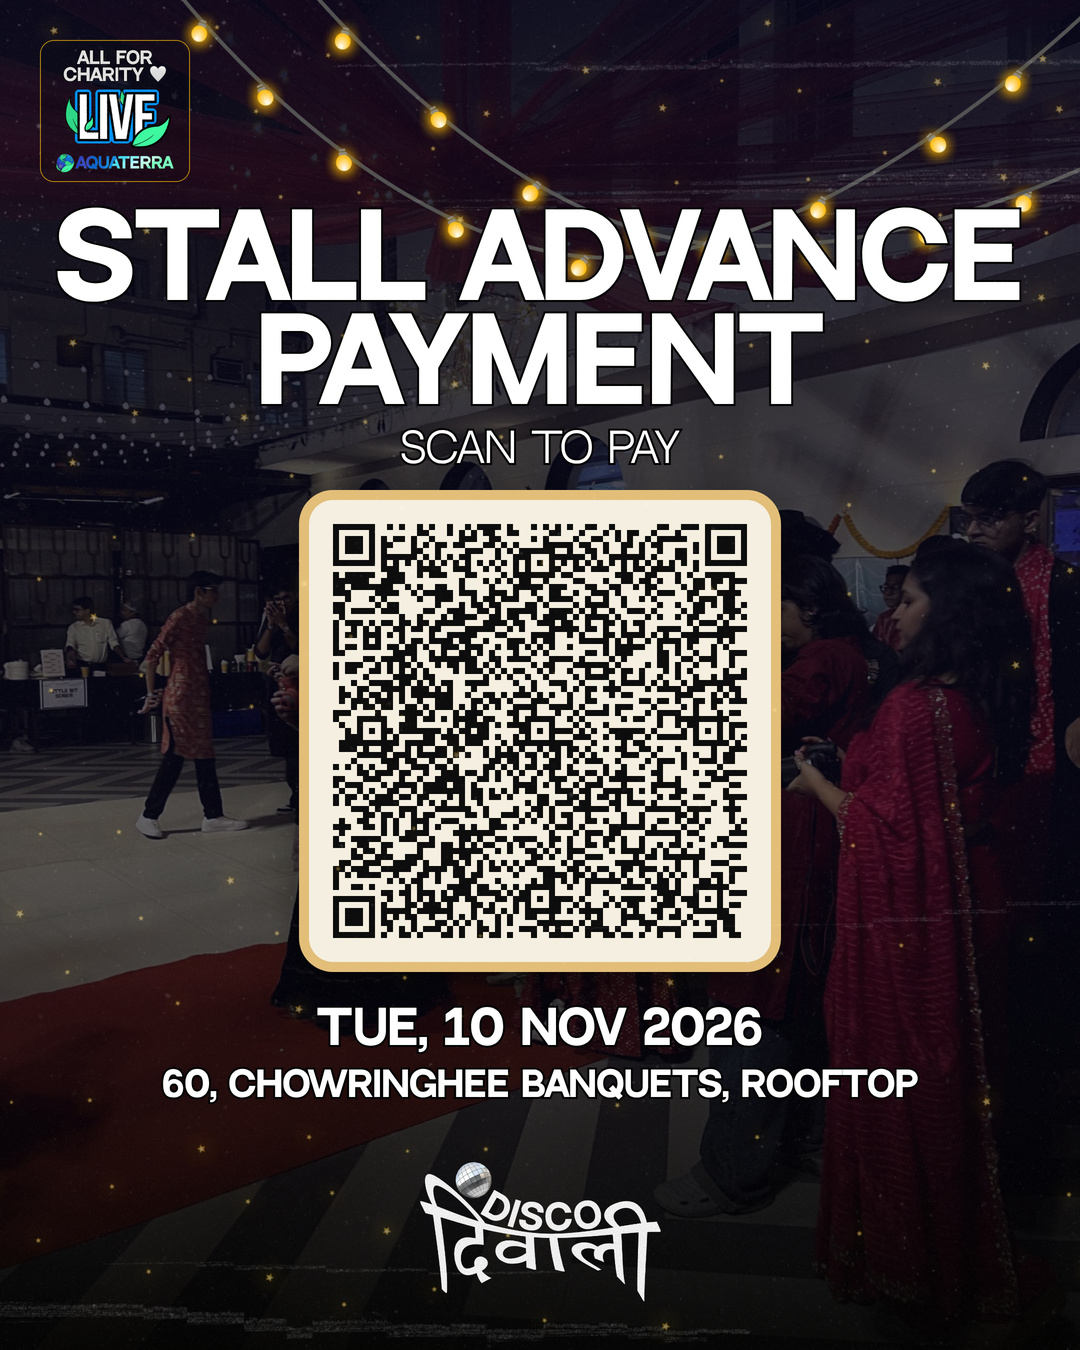
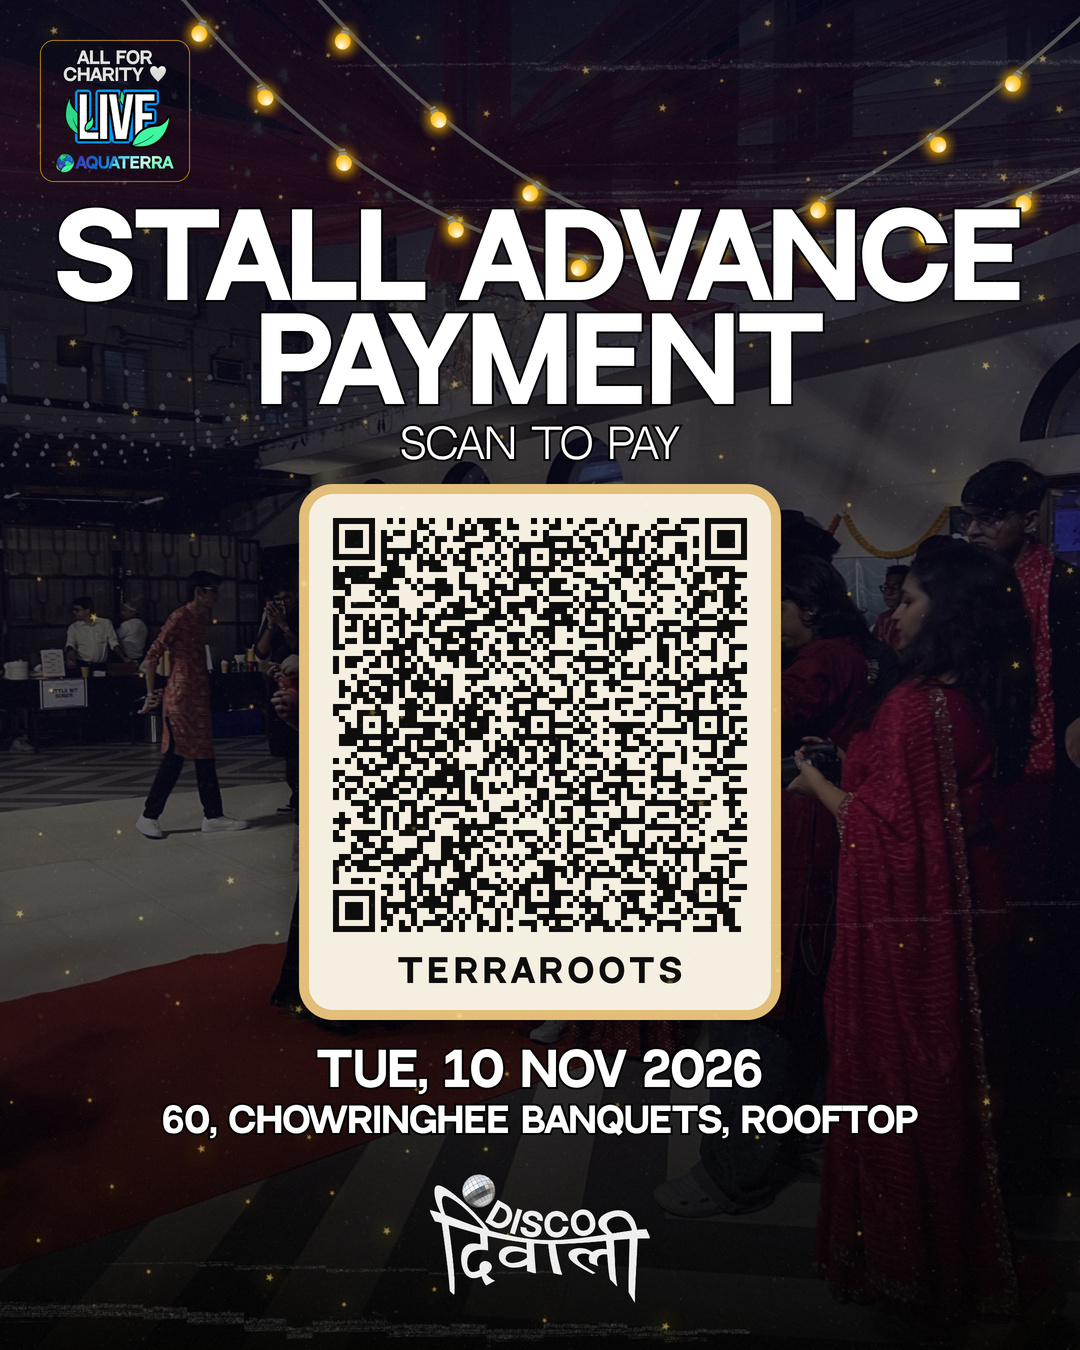
Disco Diwali stall payment poster: TERRAROOTS caption under the QR
Claude-Session: https://claude.ai/code/session_01EbfLyNU2fjZkJPnh1wiT4Z

Changed region(s): [[0.1528, 0.3111, 0.8556, 0.9644]]

diff --git a/scratchpad/dd_stall_qr_poster.py b/scratchpad/dd_stall_qr_poster.py
@@ -1,6 +1,6 @@
 """DISCO DIWALI STALL ADVANCE PAYMENT poster, WhatsApp feed 1080x1350 (user, 2026-10-22: "whatsapp poster QR for stalls advance payment").
 Audience (user): STALL HOLDERS booking a stall pay an advance. Copy (user: "headline + date + venue only"): STALL ADVANCE PAYMENT / SCAN TO PAY / TUE, 10 NOV 2026 /
-60, CHOWRINGHEE BANQUETS, ROOFTOP. No amount (the QR has none: the payer types it), no payee name, no deadline, no app claims.
+60, CHOWRINGHEE BANQUETS, ROOFTOP. No amount (the QR has none: the payer types it), and TERRAROOTS in a caption strip under the QR (user, 2026-10-23), no deadline, no app claims.
 QR: the user's own static merchant payment code (payee TERRAROOTS, Kolkata; the user ruled all payment QRs are TERRAROOTS). Regenerated crisp with segno (error M) from the
 EXACT payload decoded out of their supplied image; the build refuses to finish unless (1) the supplied image still decodes to the payload, (2) the regenerated code decodes to it,
 (3) the rendered poster's QR plate decodes to it at three scales. Dark on cream with a 4-module quiet zone (a QR on black does not scan reliably).
@@ -33,8 +33,10 @@ tmp = io.BytesIO(); q.save(tmp, kind="png", scale=12, border=4)
 assert decode(cv2.cvtColor(np.array(Image.open(io.BytesIO(tmp.getvalue())).convert("RGB")), cv2.COLOR_RGB2BGR)) == PAYLOAD, "regenerated QR does not decode to PAYLOAD"
 MODS = q.symbol_size(border=0)[0]
 QR_PX = round(430 / MODS) * MODS; PAD = round(4 * QR_PX / MODS); BORDER = 10
-PLATE = QR_PX + 2 * PAD + 2 * BORDER
-PX, PY = (W - PLATE) // 2, 490
+PLATE = QR_PX + 2 * PAD + 2 * BORDER                      # the square the QR + its 4-module quiet zone needs
+CAP = PAD + 32 + 22                                        # caption strip: the 4-module quiet zone (PAD) FIRST, then the 32px word, then 22px of cream (user, 2026-10-23: write TERRAROOTS at the bottom of the QR)
+PLATE_H = 2 * BORDER + PAD + QR_PX + CAP
+PX, PY = (W - PLATE) // 2, 484
 
 def poster():
     parts, els = [_pb.photo_ground(dd, W, H, PHOTO, PHOTO_POS, dim=.72)], []
@@ -47,13 +49,15 @@ def poster():
                      f'text-transform:uppercase;white-space:nowrap;{STROKE}{extra}z-index:20">{txt}</div>'); els.append((tag, 40, top, 1000, h))
     line("head1", "Stall advance", 205, 112, 700, 112)
     line("head2", "payment", 205 + 104, 112, 700, 112)
-    line("sub", "Scan to pay", 430, 40, 400, 44)
-    parts.append(f'<div data-tag="plate" style="position:absolute;left:{PX}px;top:{PY}px;width:{PLATE}px;height:{PLATE}px;box-sizing:border-box;background:{CREAM};border:{BORDER}px solid {GOLD};'
-                 f'border-radius:34px;display:flex;align-items:center;justify-content:center;z-index:12;box-shadow:0 14px 40px rgba(0,0,0,.55)">'
-                 f'<img data-tag="qr" src="{QR}" style="width:{QR_PX}px;height:{QR_PX}px;display:block;image-rendering:pixelated"></div>'); els.append(("qrplate", PX, PY, PLATE, PLATE))
-    line("date", "Tue, 10 Nov 2026", PY + PLATE + 34, 46, 700, 50)
-    line("venue", "60, Chowringhee Banquets, Rooftop", PY + PLATE + 96, 34, 700, 38)
-    vw = 240; t = vw / 1717; vh = round(991 * t); vx = (W - vw) // 2; vy = H - 48 - vh
+    line("sub", "Scan to pay", 426, 40, 400, 44)
+    parts.append(f'<div data-tag="plate" style="position:absolute;left:{PX}px;top:{PY}px;width:{PLATE}px;height:{PLATE_H}px;box-sizing:border-box;background:{CREAM};border:{BORDER}px solid {GOLD};'
+                 f'border-radius:34px;display:flex;flex-direction:column;align-items:center;justify-content:flex-start;z-index:12;box-shadow:0 14px 40px rgba(0,0,0,.55)">'
+                 f'<div style="padding:{PAD}px {PAD}px 0;flex:none"><img data-tag="qr" src="{QR}" style="width:{QR_PX}px;height:{QR_PX}px;display:block;image-rendering:pixelated"></div>'
+                 f'<div data-tag="payee" style="height:{CAP}px;box-sizing:border-box;padding-top:{PAD}px;text-align:center;flex:none;font-family:var(--d);font-weight:700;font-size:32px;'
+                 f'letter-spacing:.16em;line-height:1;color:{INK};text-transform:uppercase;padding-left:.16em">Terraroots</div></div>'); els.append(("qrplate", PX, PY, PLATE, PLATE_H))
+    line("date", "Tue, 10 Nov 2026", PY + PLATE_H + 28, 46, 700, 50)
+    line("venue", "60, Chowringhee Banquets, Rooftop", PY + PLATE_H + 84, 34, 700, 38)
+    vw = 220; t = vw / 1717; vh = round(991 * t); vx = (W - vw) // 2; vy = H - 48 - vh
     parts.append(f'<img data-tag="title" src="{dd.uri("title_lockup.png")}" style="position:absolute;left:{round(vx - 265 * t)}px;top:{round(vy - 320 * t)}px;width:{round(2000 * t)}px;z-index:9">')
     els.append(("title", vx, vy, vw, vh))
     return "".join(parts), els
@@ -65,10 +69,10 @@ async def main():
         await B.render(B.page(W, H, "#000", inner, grain=False), png, W, H, elements=els, containers=("qrplate",), bleed_tags=("plate",), crop_tags=("plate",), page_bg="#000",
                        text_pairs=[("date", "#fff", "#0a0a12", 46, True), ("venue", "#fff", "#0a0a12", 34, True), ("head1", "#fff", "#0a0a12", 112, True)], collision_ignore=[])
     img = Image.open(png).convert("RGB"); k = img.width / W       # the render is 2x: scale the plate box
-    crop = img.crop((round((PX - 30) * k), round((PY - 30) * k), round((PX + PLATE + 30) * k), round((PY + PLATE + 30) * k)))
+    crop = img.crop((round((PX - 30) * k), round((PY - 30) * k), round((PX + PLATE + 30) * k), round((PY + PLATE_H + 30) * k)))
     bgr = cv2.cvtColor(np.array(crop), cv2.COLOR_RGB2BGR)
     hits = [f for f in (1.0, .75, .5, .35) if decode(bgr if f == 1 else cv2.resize(bgr, None, fx=f, fy=f, interpolation=cv2.INTER_AREA)) == PAYLOAD]
     print(f"RENDER CHECK: the QR plate in the final PNG decodes to the exact payload at scales {hits}")
     assert len(hits) >= 3, "rendered QR is not decoded at enough scales"
-    print("stall qr poster ->", png, f"(plate y {PY}..{PY + PLATE}, modules {MODS}, {QR_PX // MODS}px each)")
+    print("stall qr poster ->", png, f"(plate y {PY}..{PY + PLATE_H}, modules {MODS}, {QR_PX // MODS}px each)")
 asyncio.run(main())

diff --git a/brain/DISCO_DIWALI.md b/brain/DISCO_DIWALI.md
@@ -82,7 +82,7 @@ Ten `story_ref` stories from ten NEW user-supplied photos (`engine/assets/img/ev
 Same ten photos and crops as set 4. `soldout` swaps the status to EARLY BIRD SOLD OUT (no price line; `story_ref` closes the gap). `stamp` lays the user's diagonal red band on top: `engine/assets/disco_diwali/early_bird_sold_out_banner.png`, built by `scratchpad/make_early_bird_banner.py` from the user's SOLD OUT JPEG (RGB on white): cut out by two fitted edge lines (-16.3 deg, 738px thick), the old lettering lifted off by replacing each near-white pixel with a real band pixel from the same columns, EARLY BIRD / SOLD OUT / a small NEXT PHASE OPENS SOON set in NeutralFace in the same off-white speckle, and the band lengthened by 400px each side so a smaller scale still bleeds off both edges. In stamp mode `story_ref` drops the status line (the band carries the message) and keeps the LINK IN BIO pill. FINAL placement (user, 2026-10-22: "in the center", "add the link in the bio sticker"): scale 0.52, centre line on y 960, covering the Hindi title and edition lines by the user's choice; date, time and venue sit below the band (y 1245, 1303, 1352), the pill at y 1470. Earlier tries: low at 0.40 (kept the title, rejected as not centred). Lessons: (1) a near-white test (min channel > 150) lifts lettering, a green-channel threshold also ate the pink grain and drifted the fill darker; (2) place a tilted band by solving its edges at the x-range of what it must clear: the first try sliced MASQUERADE SANGEET in half, the second covered the Hindi title (the hero), the third (scale 0.40, centre line y 1480) keeps title and edition whole; (3) the preflight collision list names the banner because its box is the full rectangle, mostly transparent corners, so it reads as noise here and only the picture can say. "Next phase opens soon" is the user's own wording; no date, price or phase name is invented.
 
 ### Stall advance payment WhatsApp poster (2026-10-22) — `scratchpad/dd_stall_qr_poster.py`, files in `sample_outputs/disco_diwali_stall_qr/`
-Feed 1080x1350 for STALL HOLDERS paying an advance to book a stall (user answers: audience stall holders, the existing TERRAROOTS QR, copy "headline + date + venue only", Disco Diwali ink-and-copper look). Copy: STALL ADVANCE PAYMENT / SCAN TO PAY / TUE, 10 NOV 2026 / 60, CHOWRINGHEE BANQUETS, ROOFTOP. No amount (the QR has none), no payee name, no deadline, no pill (WhatsApp has no link). The QR is the user's own static merchant code (payee TERRAROOTS, Kolkata), regenerated crisp with segno (error M) from the exact payload decoded out of the supplied image `engine/assets/terrathon/qr_dd_payment_terraroots_source.png`; the build asserts the source still decodes, the regenerated code decodes, and the rendered plate decodes at 4 scales (the exported 1080px JPEG at q95 also decodes). Dark on a cream plate, 4-module quiet zone. Lessons: the render is 2x, so crop the verification box with the image's own scale (the first check looked at the wrong quarter and failed); the gold-dust overlay sits UNDER the QR plate, because nothing may paint over a payment code. Needs `segno` and `opencv-python-headless`. TEST-SCAN with a real payment app before sending; the user ruled that all payment QRs are TERRAROOTS, so confirm stall holders really pay into that account.
+Feed 1080x1350 for STALL HOLDERS paying an advance to book a stall (user answers: audience stall holders, the existing TERRAROOTS QR, copy "headline + date + venue only", Disco Diwali ink-and-copper look). Copy: STALL ADVANCE PAYMENT / SCAN TO PAY / TUE, 10 NOV 2026 / 60, CHOWRINGHEE BANQUETS, ROOFTOP. No amount (the QR has none), no payee name, no deadline, no pill (WhatsApp has no link). The QR is the user's own static merchant code (payee TERRAROOTS, Kolkata), regenerated crisp with segno (error M) from the exact payload decoded out of the supplied image `engine/assets/terrathon/qr_dd_payment_terraroots_source.png`; the build asserts the source still decodes, the regenerated code decodes, and the rendered plate decodes at 4 scales (the exported 1080px JPEG at q95 also decodes). Dark on a cream plate, 4-module quiet zone; TERRAROOTS (user, 2026-10-23) is a caption strip UNDER that quiet zone, inside the plate (the first try sat 10px under the code, inside the quiet zone, and left dead cream below: a scanner needs the full clear border). Lessons: the render is 2x, so crop the verification box with the image's own scale (the first check looked at the wrong quarter and failed); the gold-dust overlay sits UNDER the QR plate, because nothing may paint over a payment code. Needs `segno` and `opencv-python-headless`. TEST-SCAN with a real payment app before sending; the user ruled that all payment QRs are TERRAROOTS, so confirm stall holders really pay into that account.
 
 ### Carousel: "window stack" (2026-10-14) — `scratchpad/dd_window_carousel.py`
 Five 4:5 slides from a user inspo (tilted search windows stacked, one photo each). Bespoke script on the Poster primitives, not a registered kind. Cover and CTA keep the lockup as hero; slides 02-04 make the photo stack the hero (R2 bends there). Title bar reads DISCO DIWALI - MASQUERADE SANGEET EDITION (supplied facts only); the one search field says LINK IN BIO. Lessons: CSS `perspective` makes a window's top edge draw ~12% WIDER than its declared width, so declare narrower; the long title needs a window >= ~830px or a shorter per-window title (it spilled past a 640px window and no gate caught it); size body type off the well, not the window. Photos carry the standing consent caveat. JPEGs and the companion art piece: `sample_outputs/disco_diwali_carousel/`.
